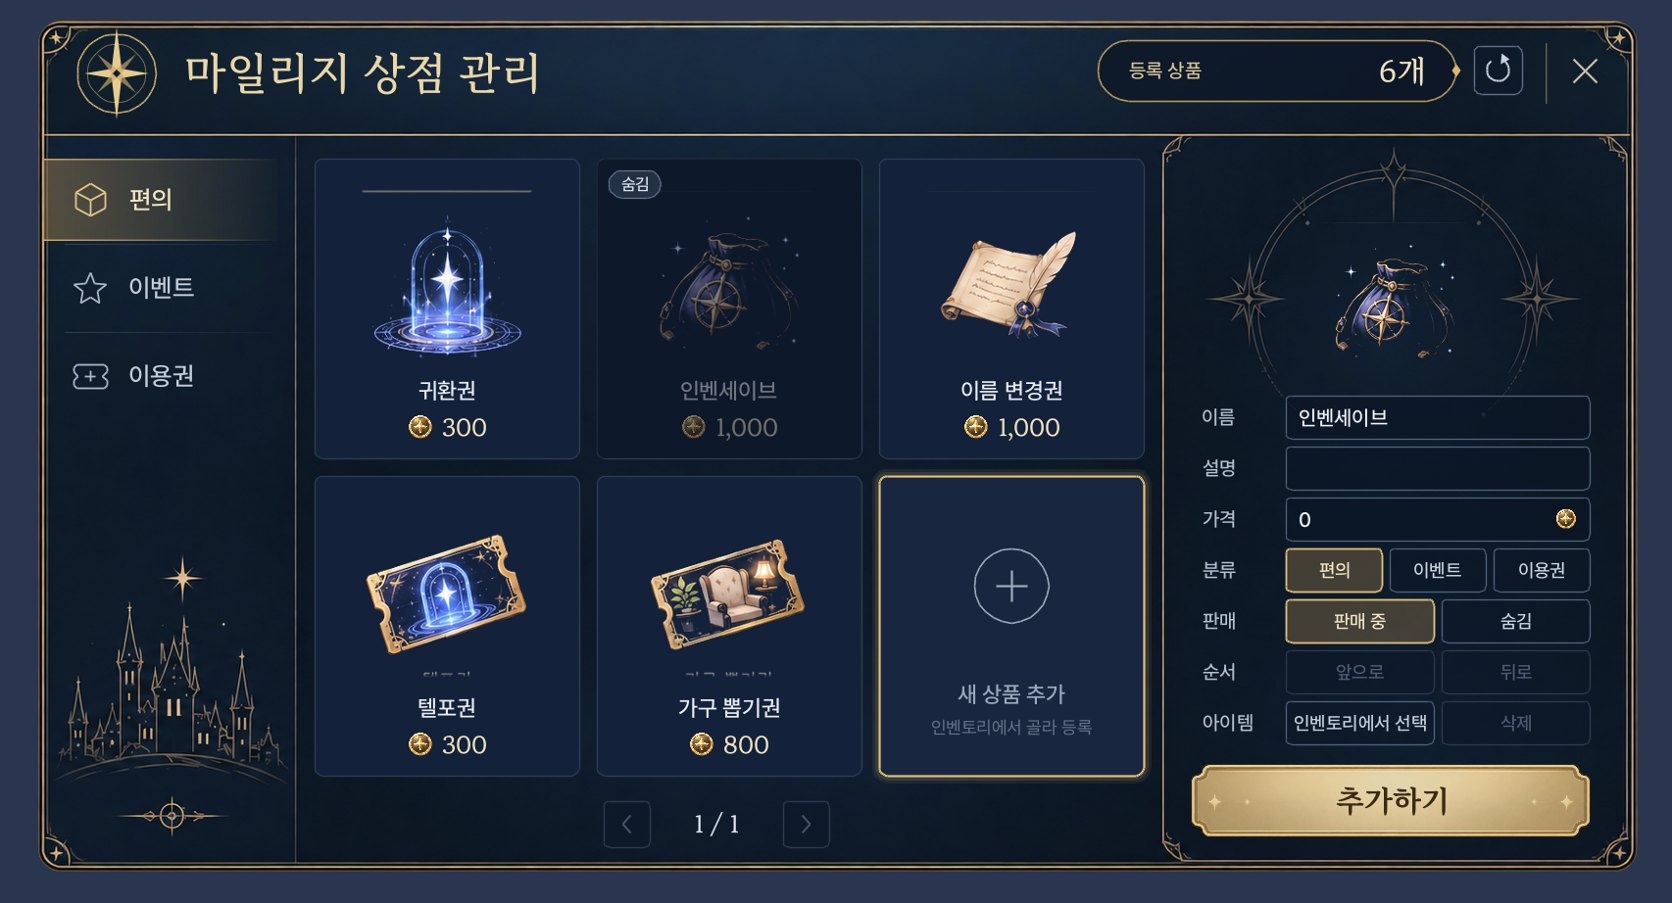
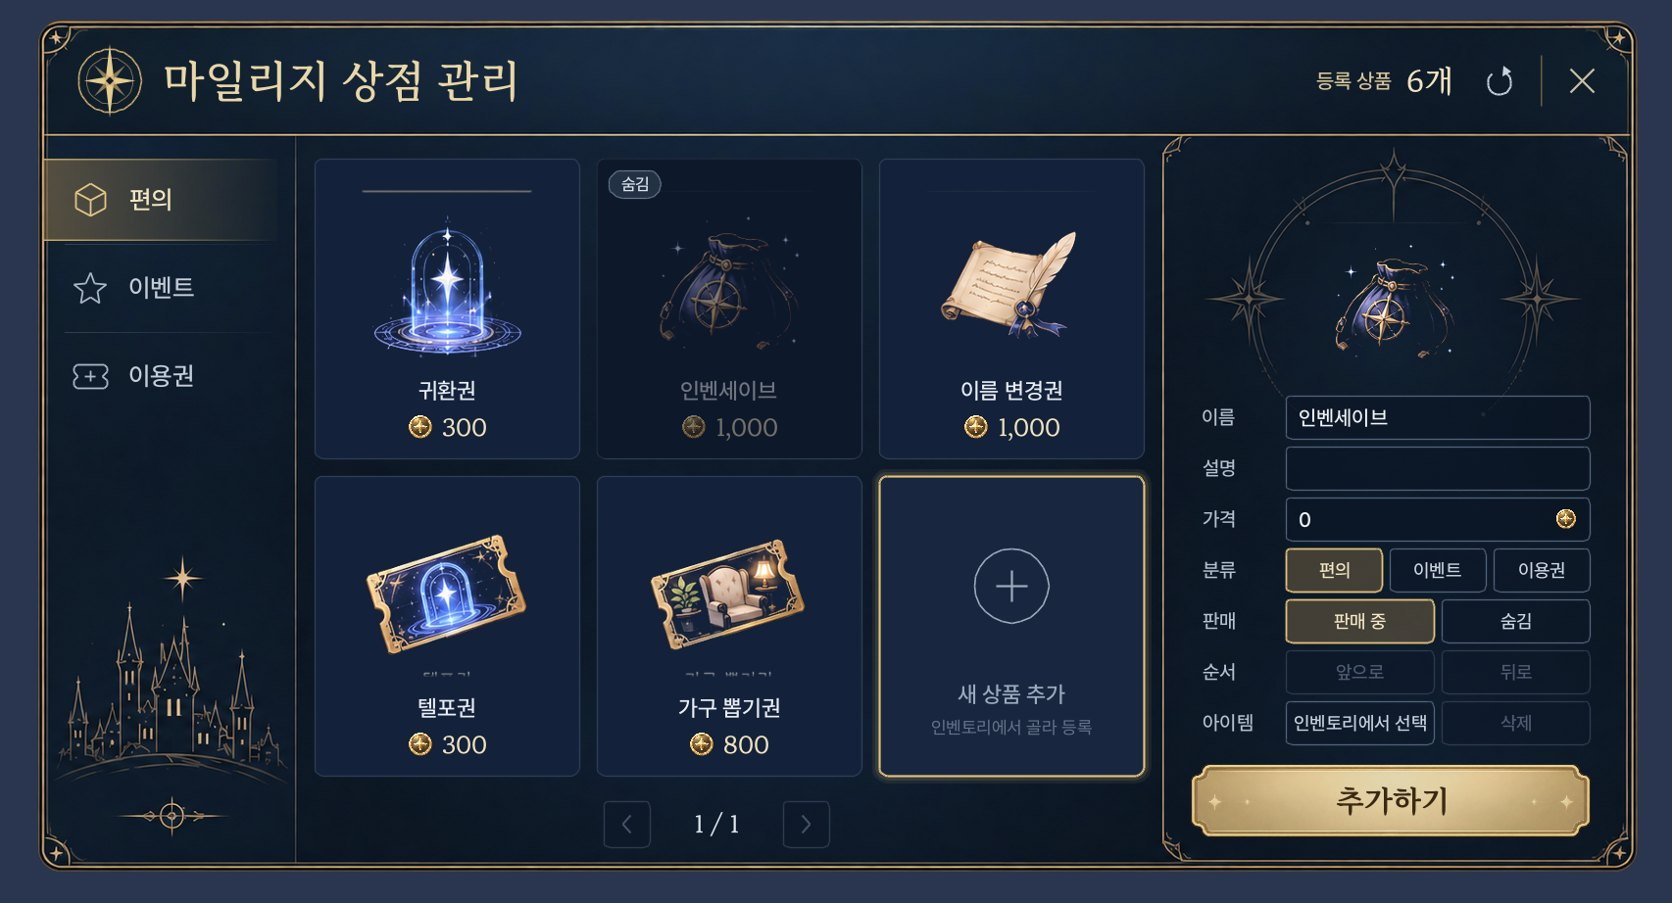
마일리지 상점 머리 줄: 보유 마일리지 캡슐·새로고침 버튼 테두리 삭제, 문양 작게(여백 확보), 제목·잔액·아이콘을 머리 띠 세로 가운데에 정렬
Claude-Session: https://claude.ai/code/session_01XHiPyhHCydVc8jyjuSTA8d

Changed region(s): [[0.6531, 0.031, 0.9641, 0.124], [0.0311, 0.031, 0.3421, 0.124]]

diff --git a/magic-codex-fabric/src/main/java/school/magiccodex/client/MileageView.java b/magic-codex-fabric/src/main/java/school/magiccodex/client/MileageView.java
@@ -56,10 +56,12 @@ final class MileageView {
             CARD_FILL = 0xFF13213A, CARD_FILL_LOW = 0xFF0F1A2D, CARD_EDGE = 0xFF2F3E57, CARD_HOVER = 0xFF4C607E, SELECT = 0xFFE4C47C;
 
     // ---------------------------------------------------------------- layout (shop_panel.png pixels)
-    static final float EMBLEM_X = 119, EMBLEM_Y = 75, EMBLEM_R = 40;
-    static final float TITLE_X = 190, TITLE_Y = 75, TITLE_SIZE = 44;
-    static final float CAP_X = 1120, CAP_Y = 41, CAP_W = 366, CAP_H = 62, COIN_X = 1159, COIN_D = 38;
-    static final float REFRESH_X = 1504, REFRESH_Y = 47, REFRESH_S = 49, HEAD_DIVIDER_X = 1577, CLOSE_X = 1617, CLOSE_Y = 72;
+    /** Header band = frame inner edge y27 .. header line y138; everything in it is centred on HEAD_CY. */
+    static final float HEAD_CY = 82.5f;
+    static final float EMBLEM_X = 112, EMBLEM_Y = HEAD_CY, EMBLEM_R = 32;
+    static final float TITLE_X = 168, TITLE_Y = HEAD_CY, TITLE_SIZE = 44;
+    static final float BALANCE_RIGHT = 1484, COIN_D = 36;
+    static final float REFRESH_X = 1508, REFRESH_Y = HEAD_CY - 22, REFRESH_S = 44, HEAD_DIVIDER_X = 1572, CLOSE_X = 1614, CLOSE_Y = HEAD_CY;
     static final float TAB_X = 44, TAB_W = 239, TAB_Y = 162, TAB_H = 84, TAB_STEP = 90, TAB_ICON_X = 92, TAB_LABEL_X = 132;
     static final float CARD_ICON = 176, CARD_ICON_Y = 30, DETAIL_ICON = 240, DETAIL_ICON_Y = 180;
     static final float GRID_X = 321, GRID_Y = 162, CARD_W = 270, CARD_H = 306, COL_STEP = 288, ROW_STEP = 324;
@@ -175,28 +177,26 @@ final class MileageView {
 
     private static void header(Canvas c, Model m) {
         emblem(c, EMBLEM_X, EMBLEM_Y, EMBLEM_R);
-        // title alone, centred on the emblem (owner 2026-10-24: 차카데미 글씨·안내 문구 삭제)
-        var title = fit(c, m.admin() ? "마일리지 상점 관리" : "마일리지 상점", TITLE_SIZE, Face.TITLE, CAP_X - 40 - TITLE_X, .7f);
+
+        // balance (owner 2026-10-24: no capsule / button frames): [coin] label  amount, right-aligned before the refresh icon
+        float cy = HEAD_CY;
+        String label = m.admin() ? "등록 상품" : "보유 마일리지";
+        String value = m.admin() ? m.productCount() + "개" : m.balance();
+        float size = amountSize(c, value, 31, Face.TITLE, 300);
+        float valueX = BALANCE_RIGHT - c.width(value, size, Face.TITLE);
+        amount(c, value, valueX, cy, size, CREAM, false);
+        float labelW = Math.min(c.width(label, 21, Face.LABEL), 140), labelX = valueX - 16 - labelW;
+        textIn(c, label, labelX, cy, 21, 0xFFD9C79A, Face.LABEL, 140, false);
+        float left = labelX;
+        if (!m.admin()) { left = labelX - 10 - COIN_D; coin(c, left + COIN_D / 2, cy, COIN_D); }
+
+        // title alone, centred on the band like the emblem (차카데미 글씨·안내 문구 삭제)
+        var title = fit(c, m.admin() ? "마일리지 상점 관리" : "마일리지 상점", TITLE_SIZE, Face.TITLE, left - 40 - TITLE_X, .7f);
         c.text(title.text(), TITLE_X, TITLE_Y, title.size(), TITLE_GOLD, Face.TITLE, false);
 
-        // balance capsule (code-rendered per README): label left, amount right, diamond on the right tip
-        box(c, CAP_X, CAP_Y, CAP_W, CAP_H, CAP_H / 2, 0xCC0C1727, 0xFFB8975A, 1.6f);
-        diamond(c, CAP_X + CAP_W, CAP_Y + CAP_H / 2, 4.5f, 6.5f, GOLD);
-        float cy = CAP_Y + CAP_H / 2, labelX;
-        if (m.admin()) labelX = CAP_X + 32;
-        else { coin(c, COIN_X, cy, COIN_D); labelX = COIN_X + COIN_D / 2 + 13; }
-        String label = m.admin() ? "등록 상품" : "보유 마일리지";
-        float labelW = Math.min(c.width(label, 20, Face.LABEL), 130);
-        textIn(c, label, labelX, cy, 20, 0xFFD9C79A, Face.LABEL, 130, false);
-        String value = m.admin() ? m.productCount() + "개" : m.balance();
-        float right = CAP_X + CAP_W - 30, max = right - (labelX + labelW + 18);
-        float size = amountSize(c, value, 31, Face.TITLE, max);
-        amount(c, value, right - c.width(value, size, Face.TITLE), cy, size, CREAM, false);
-
         boolean hr = in(m.mx(), m.my(), REFRESH_X, REFRESH_Y, REFRESH_S, REFRESH_S);
-        box(c, REFRESH_X, REFRESH_Y, REFRESH_S, REFRESH_S, 7, hr ? 0x33E4C47C : 0x660C1727, hr ? GOLD : 0xFF5E6F88, 1.4f);
-        refreshIcon(c, REFRESH_X + REFRESH_S / 2, REFRESH_Y + REFRESH_S / 2, 11.5f, hr ? CREAM : 0xFFC9D2DE);
-        c.gradient(HEAD_DIVIDER_X, 44, 1.5f, 62, 0x88B8975A, 0x88B8975A);
+        refreshIcon(c, REFRESH_X + REFRESH_S / 2, REFRESH_Y + REFRESH_S / 2 + 2, 12, hr ? CREAM : 0xFFC9D2DE);
+        c.gradient(HEAD_DIVIDER_X, cy - 26, 1.5f, 52, 0x88B8975A, 0x88B8975A);
         boolean hc = in(m.mx(), m.my(), CLOSE_X - 22, CLOSE_Y - 22, 44, 44);
         int xc = hc ? CREAM : 0xFFC9C0A6;
         c.line(CLOSE_X - 12, CLOSE_Y - 12, CLOSE_X + 12, CLOSE_Y + 12, 2.2f, xc);

diff --git a/docs/handoff/CLAUDE_MILEAGE_SHOP_20261024.md b/docs/handoff/CLAUDE_MILEAGE_SHOP_20261024.md
@@ -106,3 +106,10 @@
 
 - 카드 아래쪽 절반에 깔던 옅은 어두운 띠(`0x300A1220`)를 삭제 — 아이콘 아래쪽과 겹쳐 아이템 뒤가 어두워 보였음. 이제 아이템 아이콘 뒤에는 카드 바탕 말고 아무것도 그리지 않는다(카드·상세·인벤토리 선택 창 모두).
 - 이전 미리보기의 검은 네모는 시안 그림을 잘라 아이콘 대신 쓴 미리보기 전용 흔적이었음. 미리보기 도구에서 배경을 빼서 다시 렌더링.
+
+## 11. 5차 수정 (오너 2026-10-24: 머리 줄 정리)
+
+- 보유 마일리지 캡슐 테두리·바탕과 새로고침 버튼 네모 테두리 삭제. 오른쪽은 [코인] 보유 마일리지 12,500 · 새로고침 아이콘 · 구분선 · ✕ 만, 금액 오른쪽 끝을 x1484에 맞춰 왼쪽으로 쌓는다.
+- 머리 줄 전체를 띠(테두리 안쪽 y27 ~ 머리 선 y138)의 세로 가운데 `HEAD_CY = 82.5`에 맞춤: 문양·제목·라벨·숫자·아이콘·✕.
+- 나침반 문양 반지름 40→32, 중심 (112, 82.5): 위아래 약 19px 여백. 제목 x 168.
+- 측정(1672px 렌더): 제목 위 32 / 아래 32, 「보유 마일리지」 40 / 41, ✕ 41 / 41.
